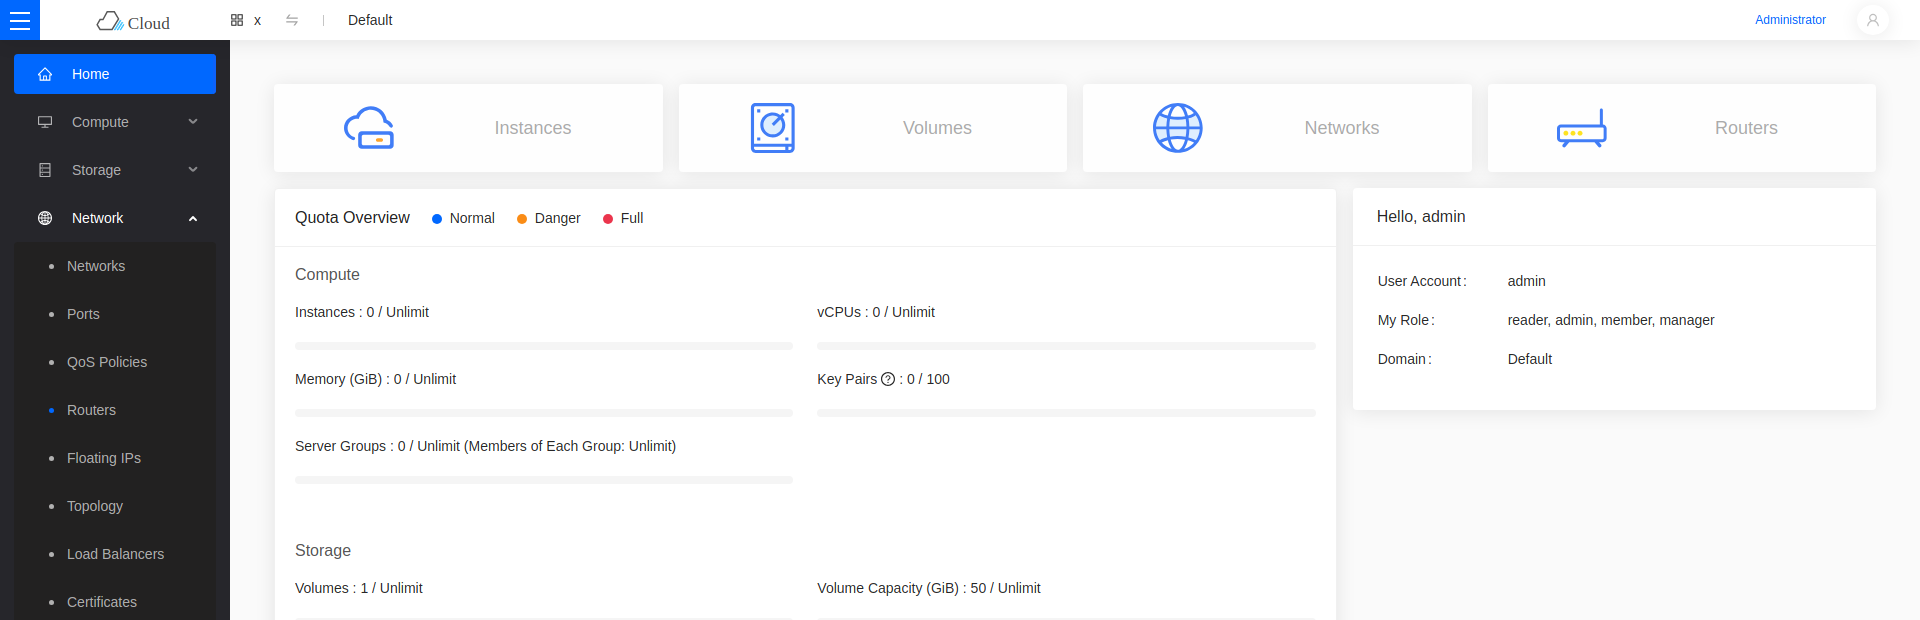
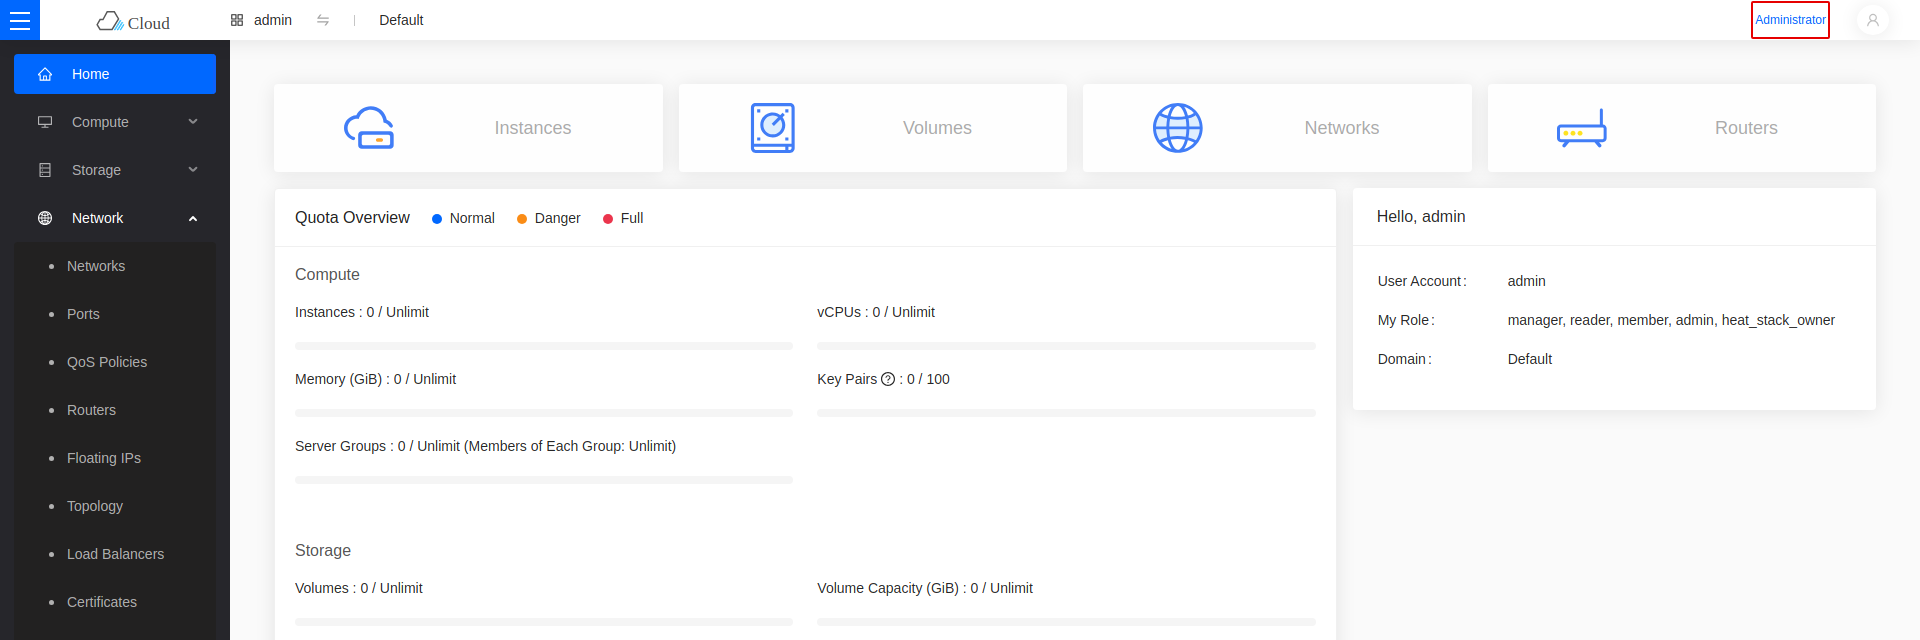
Show the admin project and highlight navigation in Day 1 screenshots
The two console navigation screenshots were taken in a tenant project called
"x". Both are retaken in the admin project, with red rectangles on the areas
the surrounding text names: the Administrator console switch in Skyline, and
the Project, Admin, Identity and Workflow sections in Horizon.

Set project quotas had no screenshot in either tab. Both now show the action
menu open on the project row with the quota entry marked.

diff --git a/versioned_docs/operators-manual/day-1/create-user-project.md b/versioned_docs/operators-manual/day-1/create-user-project.md
@@ -56,10 +56,14 @@ Click **OK**.
 
 Find the project in the list, then choose **Modify Quotas** from the actions menu.
 
+![Modify Quotas in the project actions menu in Horizon](images/hz-modify-quotas.png)
+
 </TabItem>
 <TabItem value="skyline" label="Skyline">
 
 Find the project in the list, then choose **More -> Edit Quota**.
+
+![Edit Quota in the project More menu in Skyline](images/edit-quota-menu.png)
 
 </TabItem>
 </Tabs>
